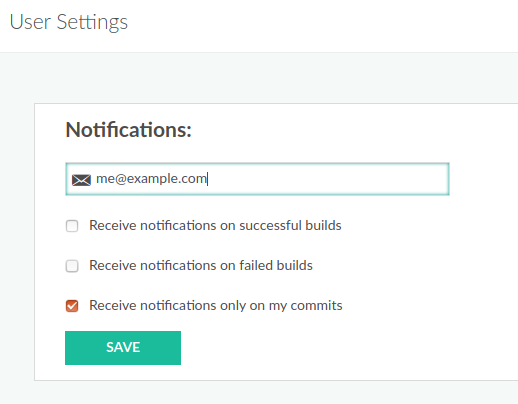
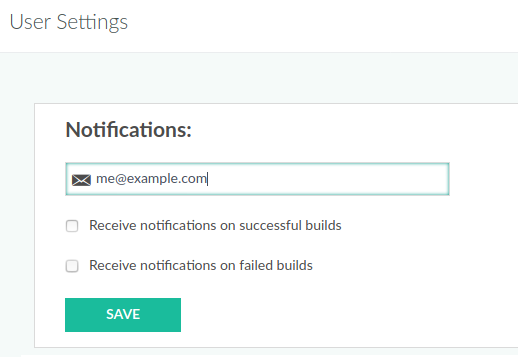
Update user settings
Added note on disabling email notification, updated options and screenshot

diff --git a/_docs/administration/user-settings.md b/_docs/administration/user-settings.md
@@ -9,15 +9,22 @@ To access your individual user settings navigate to [https://g.codefresh.io/user
 
 ## Email Notifications for Builds 
 
-In the part section of the screen you can choose what email notifications you want to be active. 
-The options are:
+> **IMPORTANT**:  
+  On 26 August 2022, we are switching off email notifications for all accounts.  
+  To re-enable email notifications, update the email notification settings for your account _after_ the above date.
+  
 
-* Email address that will receive the notifications. By default it is the same address that you used for [sign-up]({{site.baseurl}}/docs/getting-started/create-a-codefresh-account/)
-* Toggle for receiving emails of successful builds
-* Toggle for receiving emails of failed builds
-* Toggle for receiving emails only when your email was the Git committer 
+Receive email notifications for builds based on the build status: only successful, only failed, or for both successful and failed builds.  
 
-> For _new_ users, email notifications for builds, both successful and failed, are disabled by default.
+> By default, email notifications are disabled for both successful and failed builds.
+
+**Email notification settings**  
+
+* Email address for the notifications. By default it is the same address you used to [sign-up]({{site.baseurl}}/docs/getting-started/create-a-codefresh-account/).
+* Select to receive emails for successful builds
+* Select to receive emails for failed builds
+
+
 
 {% include image.html
 lightbox="true"
@@ -28,7 +35,6 @@ caption="email settings"
 max-width="50%"
 %}
 
-The last option is especially useful in big teams, where multiple people commit on the same Git repository.
 
 
 ## Weekly Updates for Build Usage
